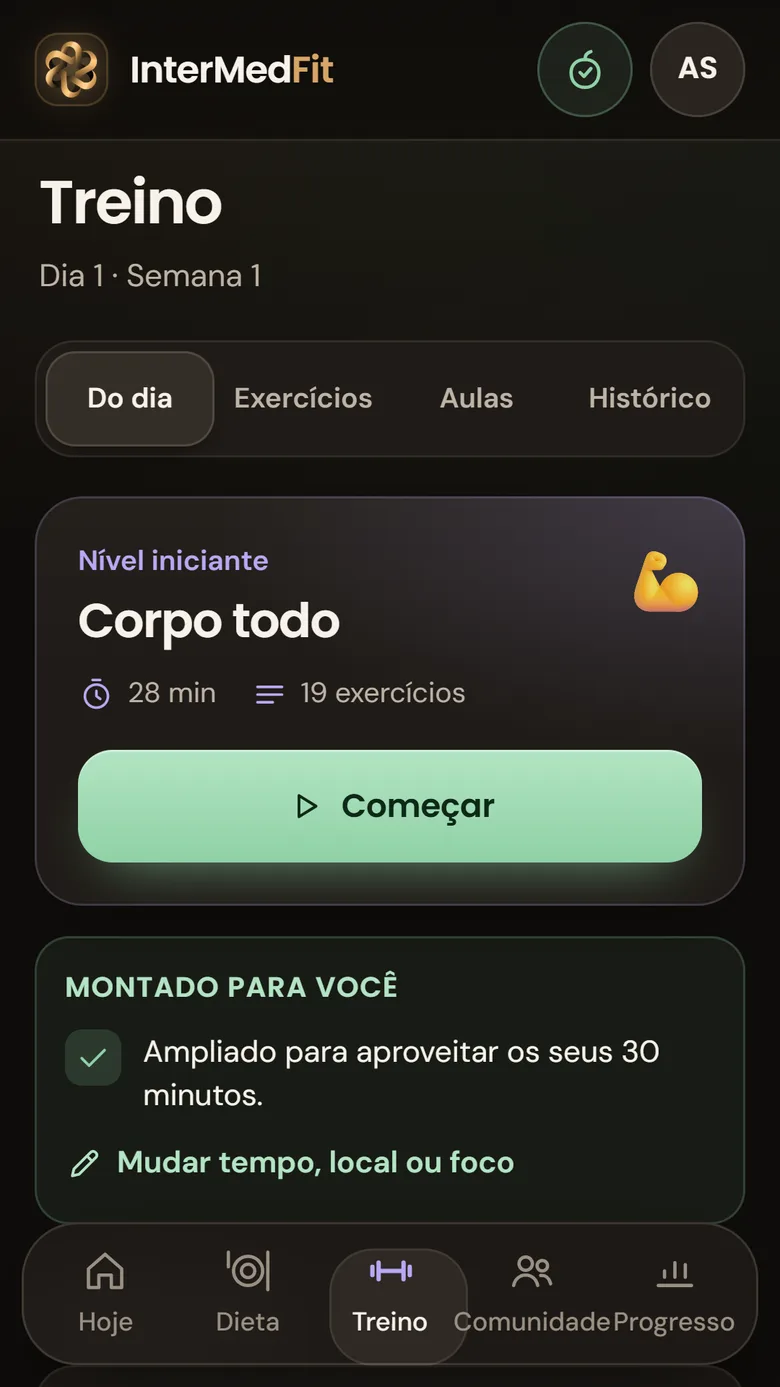
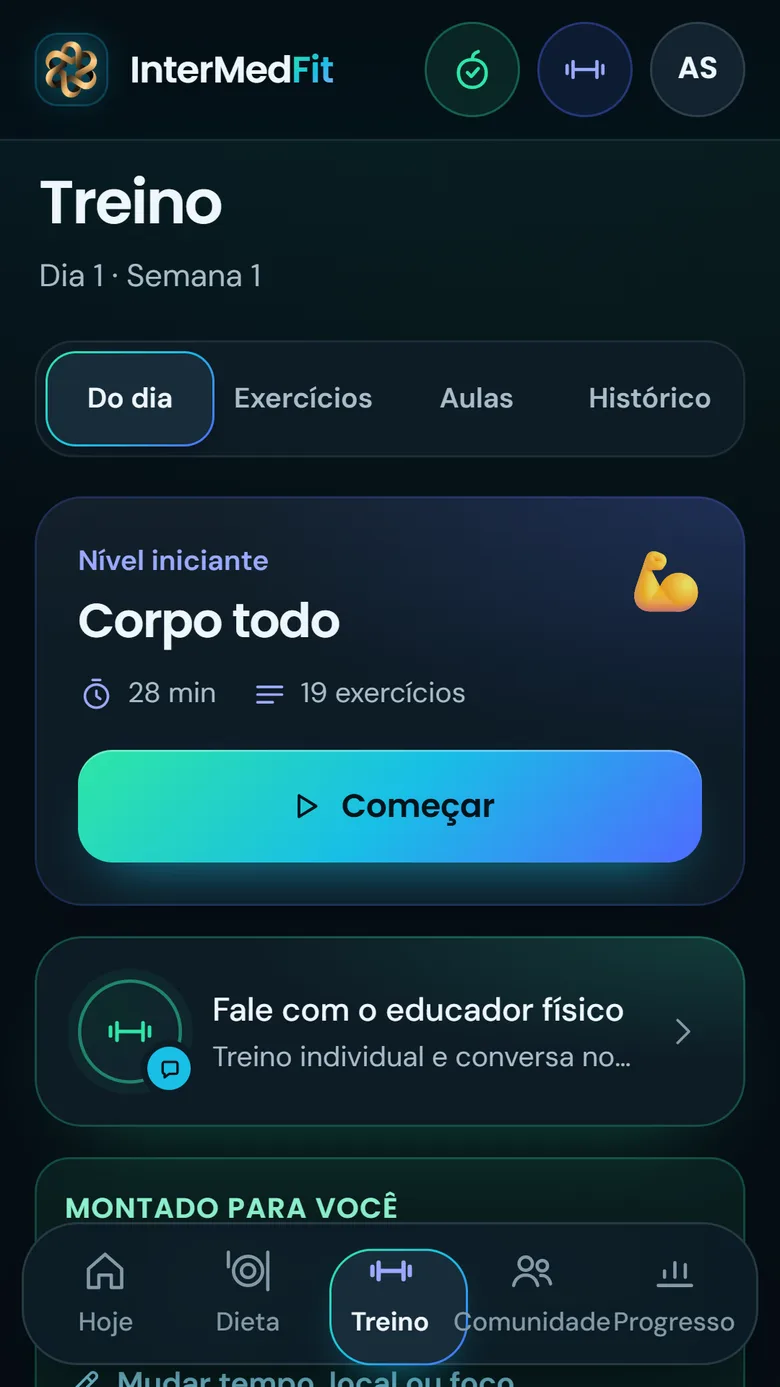
Atualiza o Cometa, o InterMedFit, a campanha de hidrolipo e a Terê
O Cometa vira produto próprio, com prints reais do app (conta de
demonstração) no lugar do diagrama. O InterMedFit ganha as telas do visual
novo. A campanha de hidrolipo conta a live e a página de reserva, e a Terê
ganha a Point do Açaí. A numeração da InterMed passa a ser de 6.

diff --git a/src/data/projects.ts b/src/data/projects.ts
@@ -19,7 +19,7 @@ export const projects: Project[] = [
     stack: ["PHP 8", "SQLite", "JavaScript", "PWA", "API Claude", "Mercado Pago", "Playwright"],
     thumbnailColor: "#e6f0ea",
     thumbnailSrc: "/images/projects/intermedfit/landing.webp",
-    group: "InterMed · 01 / 07",
+    group: "InterMed · 01 / 06",
     href: "https://intermedspa.com.br/intermedfit/",
     gallery: [
       { src: "/images/projects/intermedfit/hoje.webp", caption: "Tela Hoje, com usuária de exemplo" },
@@ -33,21 +33,32 @@ export const projects: Project[] = [
   {
     slug: "intermed-cometa",
     kind: "automacao",
-    name: "InterMed · Cometa",
-    date: "Marketing com IA e voz",
+    name: "Cometa",
+    date: "Marketing com IA · produto próprio",
     summary:
-      "Painel de marketing que reúne todos os perfis da empresa e um assistente de IA com voz, o Cometa, no estilo do Jarvis. Ele lê os números, pesquisa tendências, escreve roteiros, manda vídeo para produção e agenda posts. Feito para uma equipe que não programa ter tudo num lugar só, sem trocar de ferramenta.",
+      "Assistente de marketing com IA que começou como o painel da InterMed e virou um app próprio. A Cometa conversa por texto ou voz, monta a pauta, cria a arte, agenda e publica nas redes e mostra os números de cada uma. Feito para quem não é de marketing nem de tecnologia: o início tem três botões grandes, criar post, pedir à Cometa e criar arte.",
     highlights: [
-      "Instagram, TikTok, YouTube e Facebook num painel: detalhe por post, mapa de calor do melhor dia e horário e previsão de seguidores com faixa de certeza",
-      "Voz: escuta pelo microfone, responde falando, e um núcleo 3D de partículas reage a quem fala",
-      "IA com ferramentas: lê o painel, pesquisa na internet, escreve roteiros e monta cronogramas",
-      "Base de conhecimento da empresa inteira; tráfego e vendas entram só em totais",
-      "Nada é publicado sem um administrador aprovar, por clique ou por voz, com trilha de auditoria e proteção contra post duplicado",
+      "Publica e agenda no Instagram, Facebook, TikTok e YouTube, com calendário de arrastar e soltar, melhor horário e datas comemorativas",
+      "Estúdio de artes com IA, relatório mensal em PDF e aprovação do cliente por link",
+      "Ao conectar um Instagram, a Cometa estuda a conta e guarda o perfil da marca para usar em tudo",
+      "Um agente no computador acha fotos e arquivos para a Cometa; pedido no PC do dono só sai com a aprovação dele",
+      "Na versão da InterMed, edita vídeo no servidor e desenha ilustrações seguindo a regra de comunicação em saúde",
+      "Nada é publicado sem aprovação, com trilha de auditoria",
     ],
-    stack: ["PHP", "JavaScript", "Three.js", "Web Speech API", "API Claude", "Meta Graph API"],
-    thumbnailColor: "#0a0a0c",
-    thumbnailSrc: "/images/projects/intermed/cometa.webp",
-    group: "InterMed · 02 / 07",
+    stack: ["Next.js", "Supabase", "API Claude", "Meta Graph API", "TikTok e YouTube", "Remotion"],
+    thumbnailColor: "#0b0a1a",
+    thumbnailSrc: "/images/projects/cometa/inicio.webp",
+    gallery: [
+      { src: "/images/projects/cometa/conversa.webp", caption: "Pedindo os posts da semana à Cometa (conta de demonstração)" },
+      { src: "/images/projects/cometa/calendario.webp", caption: "Calendário com melhores horários e datas comemorativas" },
+      { src: "/images/projects/cometa/criar-arte.webp", caption: "Estúdio de artes" },
+      { src: "/images/projects/cometa/nova-publicacao.webp", caption: "Nova publicação em quatro passos" },
+      { src: "/images/projects/cometa/redes.webp", caption: "Redes conectadas e agenda de publicações" },
+      { src: "/images/projects/cometa/relatorio.webp", caption: "Relatório do mês, pronto para baixar em PDF" },
+      { src: "/images/projects/cometa/inicio-celular.webp", caption: "No celular" },
+      { src: "/images/projects/cometa/login.webp", caption: "Tela de entrada" },
+      { src: "/images/projects/intermed/cometa.webp", caption: "Como o assistente funciona na InterMed" },
+    ],
   },
   {
     slug: "intermed-trafego",
@@ -66,7 +77,7 @@ export const projects: Project[] = [
     stack: ["PHP", "Python", "Meta Marketing API", "Google Sheets", "API Claude", "Cron"],
     thumbnailColor: "#14110d",
     thumbnailSrc: "/images/projects/intermed/dashboard-regioes.webp",
-    group: "InterMed · 03 / 07",
+    group: "InterMed · 02 / 06",
     gallery: [
       { src: "/images/projects/intermed/dashboard-anuncios.webp", caption: "Anúncios do dia, com o veredito de cada um" },
     ],
@@ -89,7 +100,7 @@ export const projects: Project[] = [
     stack: ["Python", "Docker", "Evolution API", "VPS", "PHP", "WhatsApp"],
     thumbnailColor: "#0a0a0c",
     thumbnailSrc: "/images/projects/intermed/robo-arquitetura.webp",
-    group: "InterMed · 04 / 07",
+    group: "InterMed · 03 / 06",
     gallery: [
       { src: "/images/projects/intermed/robo-reativacao.webp", caption: "Convites para quem sumiu, do atendimento ao envio" },
     ],
@@ -111,7 +122,7 @@ export const projects: Project[] = [
     stack: ["GSAP", "Playwright", "FFmpeg", "Python", "edge-tts", "API Claude"],
     thumbnailColor: "#0a0a0c",
     thumbnailSrc: "/images/projects/intermed/motion.webp",
-    group: "InterMed · 05 / 07",
+    group: "InterMed · 04 / 06",
     gallery: [
       { src: "/images/projects/intermed/nina-motion.mp4", caption: "A Nina vem até você, feito pela fábrica", video: true },
       { src: "/images/projects/intermedfit/exercicio-ia.mp4", caption: "Exercício gerado por IA para o app", video: true },
@@ -136,7 +147,7 @@ export const projects: Project[] = [
     stack: ["HTML", "CSS", "JavaScript", "PHP", "Three.js", "API Feegow", "SEO"],
     thumbnailColor: "#f4ece2",
     thumbnailSrc: "/images/projects/intermed/home.webp",
-    group: "InterMed · 06 / 07",
+    group: "InterMed · 05 / 06",
     gallery: [
       { src: "/images/projects/intermed/home-outubro-rosa.webp", caption: "Página inicial com o banner do Outubro Rosa" },
       { src: "/images/projects/intermed/home-mobile.webp", caption: "Página inicial no celular" },
@@ -158,10 +169,11 @@ export const projects: Project[] = [
     name: "InterMed · Campanha de hidrolipo",
     date: "Lançamento por WhatsApp",
     summary:
-      "Campanha para levar gente ao grupo Projeto Hidrolipo no WhatsApp, com lançamento por etapas: aquecimento, a condição revelada só dentro do grupo e o dia de avaliação. Teve cronograma de 6 semanas com Outubro Rosa e Black Friday, reativação da base de leads e um grupo para quem começou o pagamento e não terminou.",
+      "Campanha para levar gente ao grupo Projeto Hidrolipo no WhatsApp, com lançamento por etapas: aquecimento, a condição revelada só dentro do grupo e o dia de avaliação. Teve cronograma de 6 semanas com Outubro Rosa e Black Friday, reativação da base de leads, uma live de lançamento e uma página de reserva própria.",
     highlights: [
       "Cronograma de 6 semanas com 30 posts e 8 enquetes por grupo",
       "Lançamento por etapas: aquecimento, revelação só no grupo e dia de avaliação",
+      "Página de reserva com os combos e um aviso de reservas que lê o número real do servidor, sem nome e sem compra inventada",
       "Criativos de feed, story e cartão impresso com QR code, feitos em série por um sistema de artes em código",
       "Fotos reais do hospital, sem antes e depois e sem preço nas peças",
       "Guia de comunicação em saúde aplicado a tudo: sem promessa de resultado, sem superlativo e sem escassez inventada",
@@ -169,7 +181,7 @@ export const projects: Project[] = [
     stack: ["WhatsApp", "Meta Ads", "Copy", "Design em código", "Regras do CFM"],
     thumbnailColor: "#0b0a08",
     thumbnailSrc: "/images/projects/intermed/hidro-novembro-feed.webp",
-    group: "InterMed · 07 / 07",
+    group: "InterMed · 06 / 06",
     gallery: [
       { src: "/images/projects/intermed/hidro-hospital-feed.webp", caption: "Feed: o hospital" },
       { src: "/images/projects/intermed/hidro-grupo-feed.webp", caption: "Feed: o grupo no WhatsApp" },
@@ -182,7 +194,7 @@ export const projects: Project[] = [
     name: "Terê Sorvetes · Loja e financeiro",
     date: "E-commerce em produção",
     summary:
-      "Loja online da sorveteria da família, no ar e recebendo pedidos: o cliente monta o açaí, acompanha o pedido e vê o próprio histórico sem criar conta, e a equipe tem painel com pedidos em tempo real. Depois veio o financeiro, que substituiu a planilha de caixa: o dono lança entrada ou saída em poucos toques e vê quanto sobrou no dia, no mês e no ano.",
+      "Loja online da sorveteria da família, no ar e recebendo pedidos: o cliente monta o açaí, acompanha o pedido e vê o próprio histórico sem criar conta, e a equipe tem painel com pedidos em tempo real. Depois veio o financeiro, que substituiu a planilha de caixa, e a mesma base está virando o site da Point do Açaí, a segunda loja.",
     highlights: [
       "Frete pelo caminho das ruas, não em linha reta: o número da casa vira coordenada e a rota sai numa consulta só",
       "CEP com três fontes em sequência e trava para CEP de outro estado ou inexistente",
@@ -190,6 +202,7 @@ export const projects: Project[] = [
       "Histórico do cliente sem login e sem expor o pedido de ninguém",
       "Financeiro com dinheiro sempre em centavos inteiros e banco que só o servidor enxerga",
       "Contas do financeiro com testes automatizados",
+      "Point do Açaí: cópia separada, com banco e painel próprios para uma loja nunca derrubar a outra, e um caixa de balcão com vendas, sangria e fechamento",
     ],
     stack: ["Next.js", "Node.js", "PostgreSQL", "Supabase", "Mapas e rotas", "PWA"],
     thumbnailColor: "#4c1d6b",
